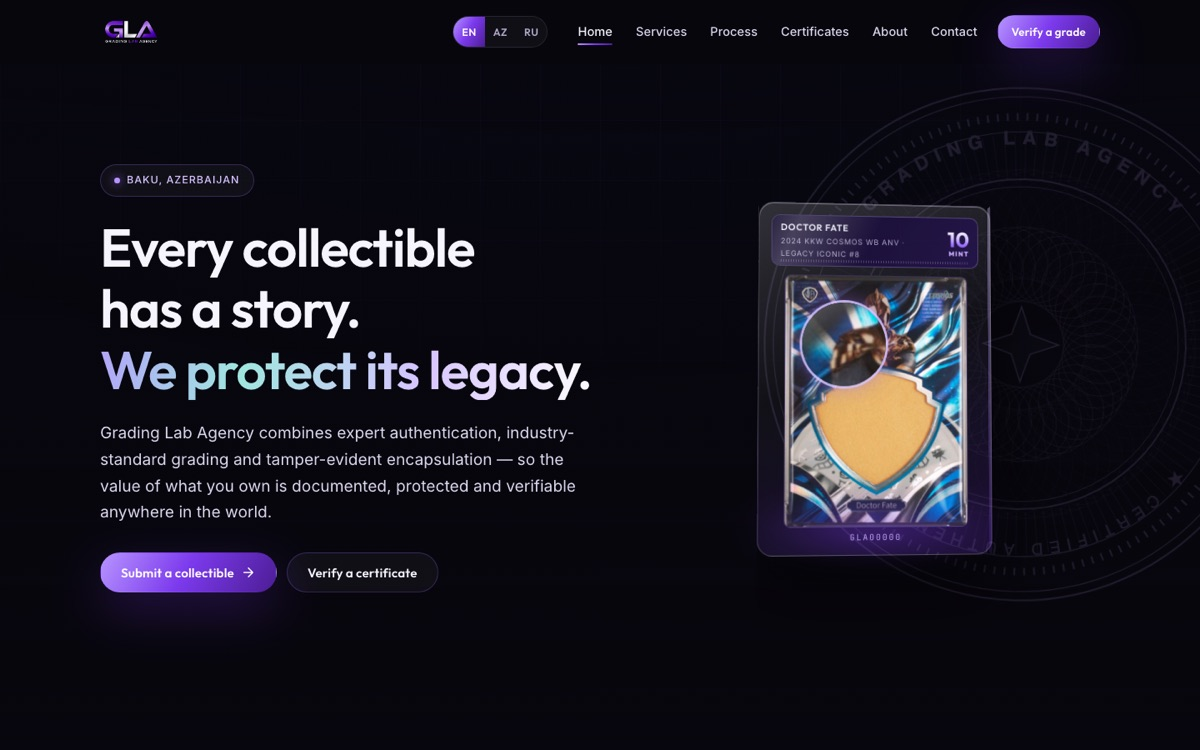
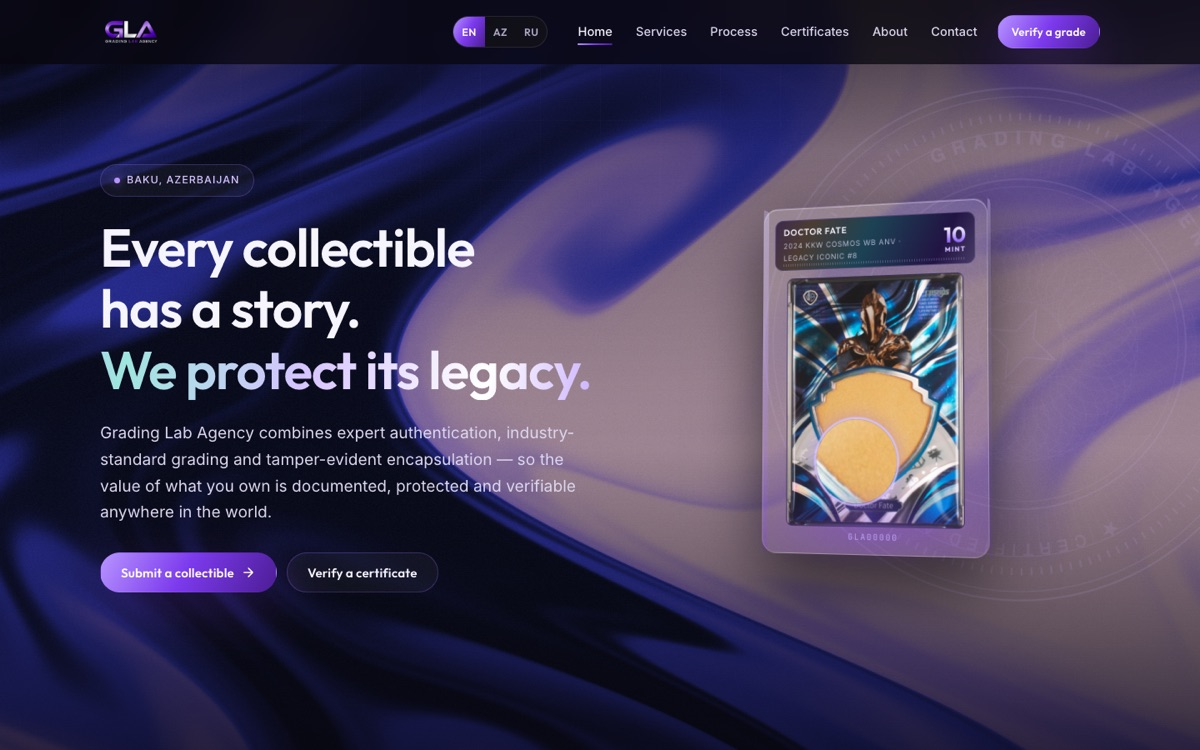
Show GLA's silk background and change the hash demo text
Retake the Grading Lab Agency screenshot with WebGL enabled so its animated background appears, with the card facing front. The cryptography demo now starts with "University".

diff --git a/index.html b/index.html
@@ -922,7 +922,7 @@
           <h3>Encoding vs. cryptography</h3>
           <p>Type anything, then change a single letter, and compare what happens on the two lines. Both are computed live in your browser.</p>
           <label class="label" for="hash-input">Your input</label>
-          <input id="hash-input" type="text" value="Landau School" autocomplete="off" spellcheck="false" placeholder="Type anything…">
+          <input id="hash-input" type="text" value="University" autocomplete="off" spellcheck="false" placeholder="Type anything…">
           <p class="lab-row-label">1 · Hex encoding — reversible</p>
           <div class="bytes" id="hex-out" aria-live="polite"></div>
           <p class="lab-stat" id="hex-stat"></p>
